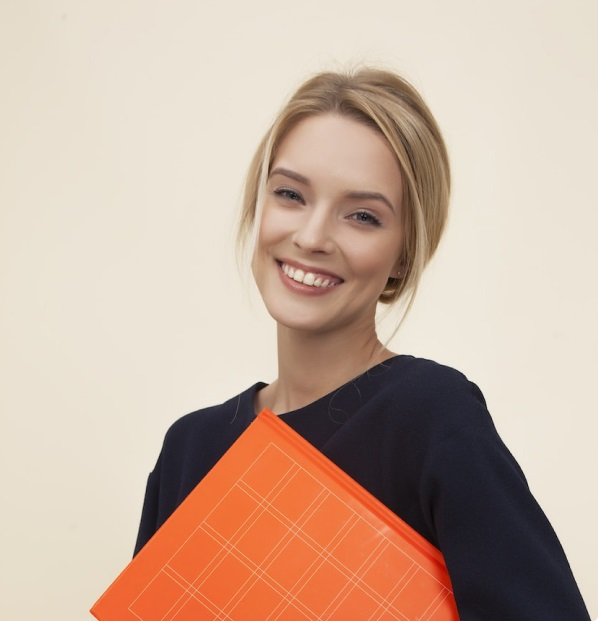
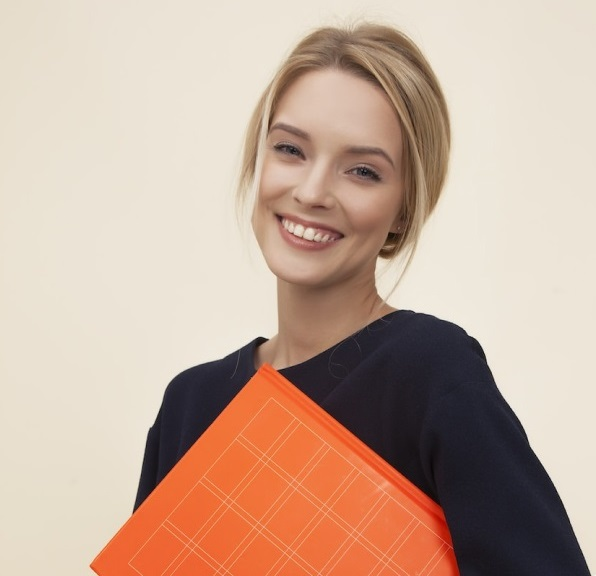
minimal

diff --git a/components/Section_03.js b/components/Section_03.js
@@ -10,15 +10,15 @@ const Section_03 = () => {
                 </h2>
                 <p className="text-gray-400 mb-2">
                     Lorem ipsum dolor sit amet, consectetur adipiscing elit. Proin at justo vel justo cursus cursus non ac justo.
-                    Fusce in hendrerit neque, nec ullamcorper ante. Vestibulum aliquet velit ac ultricies lacinia.
+                    Ullamcorper ante. Vestibulum aliquet velit ac ultricies lacinia.
                 </p>
                 <p className="text-gray-400 mb-2">
                     Integer laoreet, quam in feugiat condimentum, nunc est vehicula velit, a aliquet nisl lectus sit amet sem.
-                    Lorem ipsum dolor sit amet, consectetur adipiscing elit. Proin at justo vel justo cursus cursus non ac justo.
+                    Proin at justo vel justo cursus cursus non ac justo.
                 </p>
                 <p className="text-gray-400 mb-4">
                     Fusce in hendrerit neque, nec ullamcorper ante. Vestibulum aliquet velit ac ultricies lacinia.
-                    Lorem ipsum dolor sit amet, consectetur adipiscing elit. Proin at justo vel justo cursus cursus non ac justo.
+                    Consectetur adipiscing elit. Proin at justo vel justo cursus cursus non ac justo.
                 </p>
                 <button className="bg-blue-500 text-white px-4 py-2 mt-5 rounded">
                     Explore Courses
@@ -26,11 +26,11 @@ const Section_03 = () => {
             </div>
 
             {/* Image */}
-            <div className="flex justify-center md:w-1/2 mt-10 md:mt-0">
+            <div className="flex justify-center md:w-1/2 mt-10 md:mt-4">
                 <img
                     src="/images/section_03/posterImage.jpg"  // Update the image path
                     alt="Section Image"
-                    className="w-full md:w-full h-auto object-cover"
+                    className="w-full md:w-full lg:w-2/3 h-auto object-cover"
                 />
             </div>
         </section>
